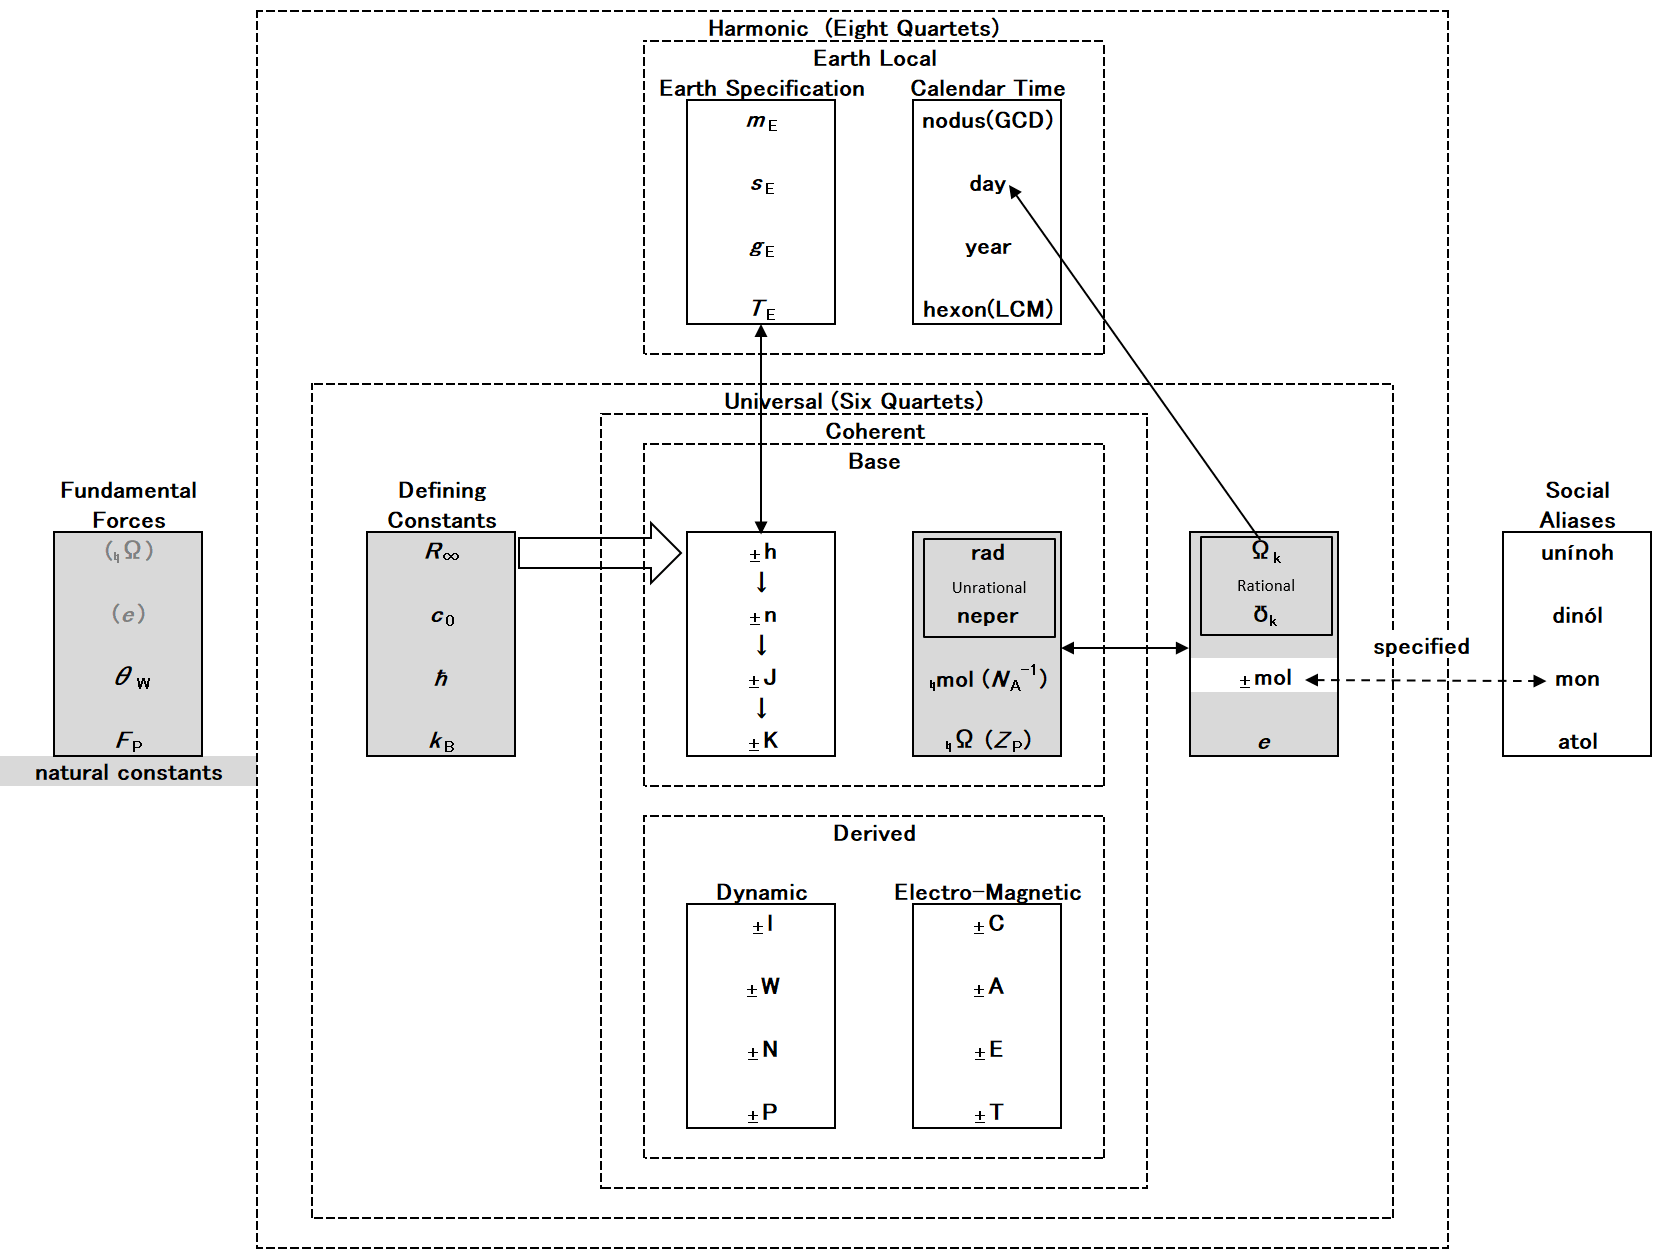
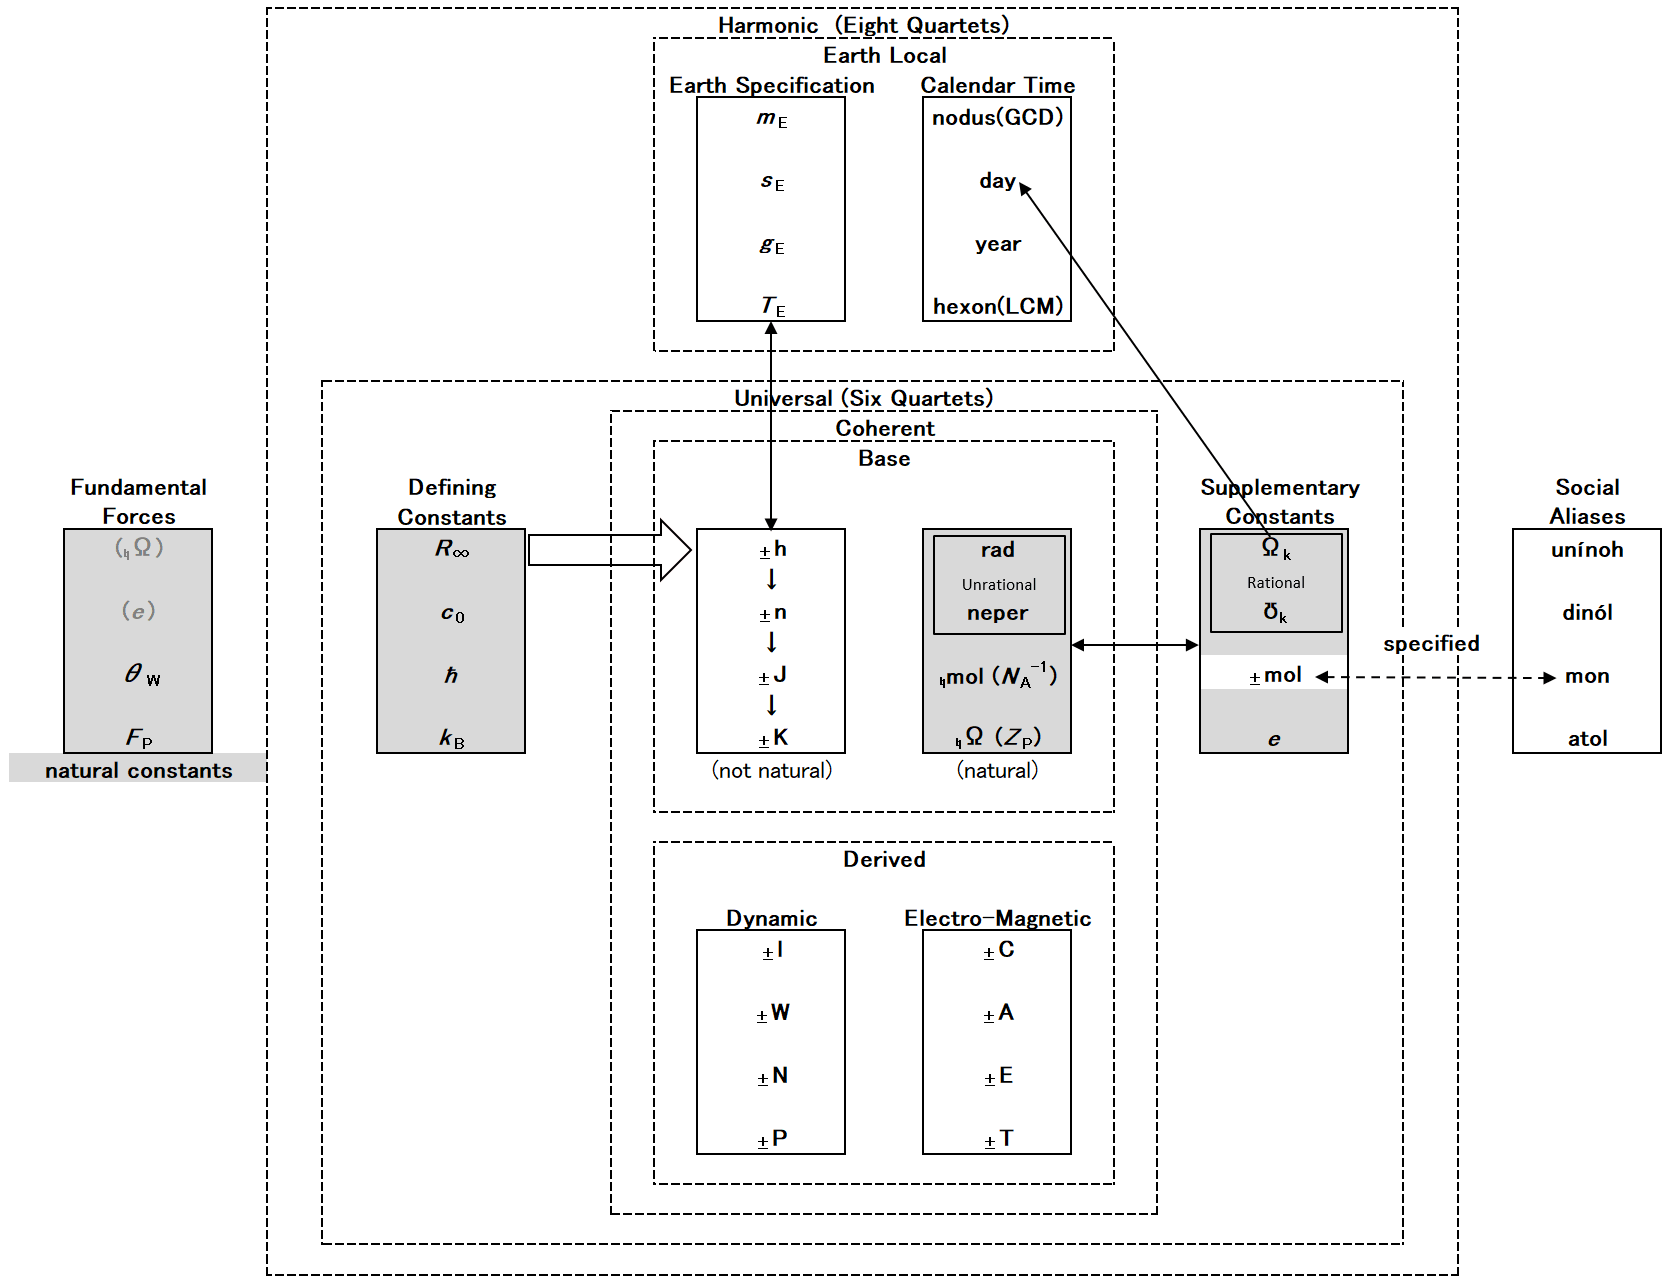
AAdd glossary & linked Eight_Quartets map; refine related docs
- Add doc/glossary.md and doc/Eight_Quartets.pdf (linked concept map);
  reference both from README.md
- Eight_Quartets PNGs: label previously undescribed frames
  (Supplementary Constants, (natural), (not natural));
  update revised.pdf Figure 2 to match
- Note the pressure giving a molar volume of 100; harmonic cube
  per universal mol (revised.pdf note 51, tables.pdf note 11)
- Accept "deg H" / "degree H" notation variants
  (revised.pdf Table 8, tables.pdf Table 5)
- harmonic.pdf, condensed.xlsx: expand °C–°H conversion table
  (both directions near 14 °C and 37 °C)

diff --git a/doc/glossary.md b/doc/glossary.md
@@ -21,7 +21,7 @@ subscripted. SI equivalents are taken from the *Clock_by_Rydberg* sheet of
 | <font color='royalblue'>rad</font> | [radian](http://hosi.org/cgi-bin/conv.cgi?c=d&m=100f0&d=86&tu=1&tr=10&tm=off&tp=0&tl=0&fu=0&fr=12&fm=off&fp=0&fl=0&fq=1.0000000&fe=0&c=Convert)| plane angle | same as SI | natural, coherent, core |  [radian](https://en.wikipedia.org/wiki/Radian) |
 | <font color='royalblue'>neper</font> | [neper](http://hosi.org/cgi-bin/conv.cgi?c=fu&m=100f0&d=59&tu=1&tr=10&tm=off&tp=0&tl=0&fu=2&fr=12&fm=off&fp=0&fl=0&fq=1.0000000&fe=0&c=Convert) | logarithm of Napier's constant | same as SI | natural, base | [neper](https://en.wikipedia.org/wiki/Neper) |
 | <font color='royalblue'><sub>♮</sub>mol</font> | [natural mol](http://hosi.org/cgi-bin/conv.cgi?m=100c0&d=0&fq=1.0000000&frq=12&fe=0&fu=4&tu=1&fp=0&tp=0&fm=off&tm=off&fr=12&tr=10&fl=0&tl=0&c=Convert) | reciprocal Avogadro constant (<font color='royalblue'>N<sub>A</sub>⁻¹</font>) | mol / 602,214,076,000,000,000,000,000 | `♮` ≡ `3-`; substance must be specified | [Avogadro constant](https://en.wikipedia.org/wiki/Avogadro_constant) ⁻¹ |
-| <font color='royalblue'><sub>♮</sub>Ω</font> (<font color='royalblue'>Z<sub>P</sub></font>) | [nohm](http://hosi.org/cgi-bin/conv.cgi?m=100b0&d=10&fq=1.0000000&frq=12&fe=0&fu=0&tu=1&fp=0&tp=0&fm=off&tm=off&fr=12&tr=10&fl=0&tl=0&c=Convert) | natural unit of impedance | 29.9792458 Ω | vacuum impedance | [Planck Impedance](https://en.wikipedia.org/wiki/Impedance_of_free_space) / `Ω₂` |
+| <font color='royalblue'><sub>♮</sub>Ω</font> (<font color='royalblue'>Z<sub>P</sub></font>) | [nohm](http://hosi.org/cgi-bin/conv.cgi?m=100b0&d=10&fq=1.0000000&frq=12&fe=0&fu=0&tu=1&fp=0&tp=0&fm=off&tm=off&fr=12&tr=10&fl=0&tl=0&c=Convert) | natural unit of impedance | 29.9792458 Ω | vacuum impedance | [Impedance of free space](https://en.wikipedia.org/wiki/Impedance_of_free_space) / `Ω₂` |
 
 ## 2. Base Units (not natural)
 
@@ -64,21 +64,21 @@ unit equals the harmonic unit. When context makes the Harmonic System clear,
 
 ## 6. Defining Constants
 
-| Symbol | Name | Quantity | Constant | Wikipedia |
-|--------|------|----------|----------|-----------|
-| <font color='royalblue'>R<sub>∞</sub></font> | [Rydberg](http://hosi.org/cgi-bin/conv.cgi?m=100f0&d=87&fq=1.0000000000000&frq=10&fe=0&fu=5&tu=1&fp=0&tp=0&fm=off&tm=off&fr=10&tr=10&fl=0&tl=0&c=Convert) | wave number | the Rydberg constant | [Rydberg constant](https://en.wikipedia.org/wiki/Rydberg_constant) |
-| <font color='royalblue'><sub>♮</sub>γ</font> (`c₀`) | [light](http://hosi.org/cgi-bin/conv.cgi?m=100f0&d=6&fq=1.00000000&frq=10&fe=0&fu=4&tu=1&fp=0&tp=0&fm=off&tm=off&fr=10&tr=10&fl=0&tl=0&c=Convert) | velocity | speed of light in vacuum | [Speed of light](https://en.wikipedia.org/wiki/Speed_of_light) |
-| `ħ` | [quantum](http://hosi.org/cgi-bin/conv.cgi?m=100f0&d=25&fq=1.000000000000&frq=10&fe=0&fu=4&tu=1&fp=0&tp=0&fm=off&tm=off&fr=10&tr=10&fl=0&tl=0&c=Convert) | action | quantum of action (reduced Planck constant) | [Planck constant](https://en.wikipedia.org/wiki/Planck_constant) |
-| <font color='royalblue'>k<sub>B</sub></font> | [Boltzmann](http://hosi.org/cgi-bin/conv.cgi?m=10090&d=5&fq=1.0000000&frq=10&fe=0&fu=4&tu=1&fp=0&tp=0&fm=off&tm=off&fr=10&tr=10&fl=0&tl=0&c=Convert) | entropy | the Boltzmann constant | [Boltzmann constant](https://en.wikipedia.org/wiki/Boltzmann_constant) |
+| Symbol | Name | Quantity | SI equivalent | Constant | Wikipedia |
+|--------|------|----------|---------------|----------|-----------|
+| <font color='royalblue'>R<sub>∞</sub></font> | [Rydberg](http://hosi.org/cgi-bin/conv.cgi?m=100f0&d=87&fq=1.0000000000000&frq=10&fe=0&fu=5&tu=1&fp=0&tp=0&fm=off&tm=off&fr=10&tr=10&fl=0&tl=0&c=Convert) | wave number | 10973731.568157 Ω₁/m | the Rydberg constant | [Rydberg constant](https://en.wikipedia.org/wiki/Rydberg_constant) |
+| <font color='royalblue'><sub>♮</sub>γ</font> (`c₀`) | [light](http://hosi.org/cgi-bin/conv.cgi?m=100f0&d=6&fq=1.00000000&frq=10&fe=0&fu=4&tu=1&fp=0&tp=0&fm=off&tm=off&fr=10&tr=10&fl=0&tl=0&c=Convert) | velocity | 299792458 m/s | speed of light in vacuum | [Speed of light](https://en.wikipedia.org/wiki/Speed_of_light) |
+| `ħ` | [quantum](http://hosi.org/cgi-bin/conv.cgi?m=100f0&d=25&fq=1.000000000000&frq=10&fe=0&fu=4&tu=1&fp=0&tp=0&fm=off&tm=off&fr=10&tr=10&fl=0&tl=0&c=Convert) | action | 6.62607015×10<sup>−34</sup> J⋅s / 2π | quantum of action (reduced Planck constant) | [Planck constant](https://en.wikipedia.org/wiki/Planck_constant) |
+| <font color='royalblue'>k<sub>B</sub></font> | [Boltzmann](http://hosi.org/cgi-bin/conv.cgi?m=10090&d=5&fq=1.0000000&frq=10&fe=0&fu=4&tu=1&fp=0&tp=0&fm=off&tm=off&fr=10&tr=10&fl=0&tl=0&c=Convert) | entropy | 1.380649×10<sup>−23</sup> J/K | the Boltzmann constant | [Boltzmann constant](https://en.wikipedia.org/wiki/Boltzmann_constant) |
 
 ## 7. Supplementary Constants
 
-| Symbol | Name | Constant | Wikipedia |
-|--------|------|----------|-----------|
-| `e` | [electron](http://hosi.org/cgi-bin/conv.cgi?m=100b0&d=0&fq=1.0000000&frq=10&fe=0&fu=6&tu=1&fp=0&tp=0&fm=off&tm=off&fr=10&tr=10&fl=0&tl=0&c=Convert) | elementary electric charge | [Elementary charge](https://en.wikipedia.org/wiki/Elementary_charge) |
-| <font color='royalblue'><sub>±</sub>mol</font><sub>substance</sub> | [harmonic / universal mol](http://hosi.org/cgi-bin/conv.cgi?m=100f0&d=7&fq=1.0000000000&frq=12&fe=0&fu=0&tu=1&fp=0&tp=0&fm=off&tm=off&fr=12&tr=10&fl=0&tl=0&c=Convert) | with substance name (ex. <font color='royalblue'><sub>±</sub>mol</font><sub>CO₂</sub>) | [Mole (unit)](https://en.wikipedia.org/wiki/Mole_(unit)) |
-| <font color='royalblue'>Ω<sub>k</sub></font> | turn-class unit | total solid angle of a hypersphere (Ω₁=[cycle](http://hosi.org/cgi-bin/conv.cgi?m=100f0&d=86&fq=1.0000000&frq=12&fe=0&fu=3&tu=7&fp=0&tp=0&fm=off&tm=off&fr=12&tr=10&fl=0&tl=0&c=Convert), Ω₂=[turn](http://hosi.org/cgi-bin/conv.cgi?m=100f0&d=85&fq=1.0000000&frq=12&fe=0&fu=3&tu=1&fp=0&tp=0&fm=off&tm=off&fr=12&tr=10&fl=0&tl=0&c=Convert)) | — |
-| <font color='royalblue'>℧<sub>k</sub></font> (<font color='royalblue'>f<sub>k</sub></font>) | figure | logarithm of an integer; f₁=[bit](http://hosi.org/cgi-bin/conv.cgi?m=100f0&d=59&fq=1.0000000&frq=10&fe=0&fu=4&tu=3&fp=0&tp=0&fm=off&tm=off&fr=10&tr=10&fl=0&tl=0&c=Convert), f₄=nibble, f₈=byte, f_z=[figure](http://hosi.org/cgi-bin/conv.cgi?m=100f0&d=59&fq=1.0000000&frq=12&fe=0&fu=0&tu=1&fp=0&tp=0&fm=off&tm=off&fr=12&tr=10&fl=0&tl=0&c=Convert) (z = log12./log2). Alias `f` where `℧` unavailable | — |
+| Symbol | Name | SI equivalent | Constant | Wikipedia |
+|--------|------|---------------|----------|-----------|
+| `e` | [electron](http://hosi.org/cgi-bin/conv.cgi?m=100b0&d=0&fq=1.0000000&frq=10&fe=0&fu=6&tu=1&fp=0&tp=0&fm=off&tm=off&fr=10&tr=10&fl=0&tl=0&c=Convert) | 1.602176634×10<sup>−19</sup> C | elementary electric charge | [Elementary charge](https://en.wikipedia.org/wiki/Elementary_charge) |
+| <font color='royalblue'><sub>±</sub>mol</font><sub>substance</sub> | [harmonic / universal mol](http://hosi.org/cgi-bin/conv.cgi?m=100f0&d=7&fq=1.0000000000&frq=12&fe=0&fu=0&tu=1&fp=0&tp=0&fm=off&tm=off&fr=12&tr=10&fl=0&tl=0&c=Convert) | 132.00762 mol | with substance name (ex. <font color='royalblue'><sub>±</sub>mol</font><sub>CO₂</sub>) | [Mole (unit)](https://en.wikipedia.org/wiki/Mole_(unit)) |
+| <font color='royalblue'>Ω<sub>k</sub></font> | turn-class unit | — | total solid angle of a hypersphere (Ω₁=[cycle](http://hosi.org/cgi-bin/conv.cgi?m=100f0&d=86&fq=1.0000000&frq=12&fe=0&fu=3&tu=7&fp=0&tp=0&fm=off&tm=off&fr=12&tr=10&fl=0&tl=0&c=Convert), Ω₂=[turn](http://hosi.org/cgi-bin/conv.cgi?m=100f0&d=85&fq=1.0000000&frq=12&fe=0&fu=3&tu=1&fp=0&tp=0&fm=off&tm=off&fr=12&tr=10&fl=0&tl=0&c=Convert)) | — |
+| <font color='royalblue'>℧<sub>k</sub></font> (<font color='royalblue'>f<sub>k</sub></font>) | figure | — | logarithm of an integer; f₁=[bit](http://hosi.org/cgi-bin/conv.cgi?m=100f0&d=59&fq=1.0000000&frq=10&fe=0&fu=4&tu=3&fp=0&tp=0&fm=off&tm=off&fr=10&tr=10&fl=0&tl=0&c=Convert), f₄=nibble, f₈=byte, f_z=[figure](http://hosi.org/cgi-bin/conv.cgi?m=100f0&d=59&fq=1.0000000&frq=12&fe=0&fu=0&tu=1&fp=0&tp=0&fm=off&tm=off&fr=12&tr=10&fl=0&tl=0&c=Convert) (z = log12./log2). Alias `f` where `℧` unavailable | — |
 
 ## 8. Structural Constants
 
@@ -118,8 +118,8 @@ the 53-tone equal-tempered keyboard.
 | <font color='royalblue'>m<sub>E</sub></font> | Earth meridian ([meridian](http://hosi.org/cgi-bin/conv.cgi?m=100f0&d=0&fq=1.0000000&frq=12&fe=0&fu=13&tu=1&fp=0&tp=3&fm=off&tm=off&fr=12&tr=10&fl=0&tl=0&c=Convert)) | meridian length of the Earth (≑ (ω₂/3) cosmic harmon / Ω₁) |
 | <font color='royalblue'>s<sub>E</sub></font> | Earth solar ([solar](http://hosi.org/cgi-bin/conv.cgi?m=100f0&d=2&fq=1.0000000&frq=12&fe=0&fu=14&tu=1&fp=0&tp=0&fm=off&fr=12&tr=10&fl=0&tl=0&c=Convert)) | rotation period of the Earth (epoch: start of year 1900.) |
 | <font color='royalblue'>g<sub>E</sub></font> | gee of Earth ([gee](http://hosi.org/cgi-bin/conv.cgi?m=100f0&d=18&fq=1.0000000&frq=12&fe=0&fu=5&tu=1&fp=0&tp=0&fm=off&tm=off&fr=12&tr=10&fl=0&tl=0&c=Convert)) | gravitational acceleration of the Earth |
-| `°H` | [degree H](http://hosi.org/cgi-bin/conv.cgi?m=10090&d=0&fq=0.0000000&frq=12&fe=0&fu=0&tu=1&fp=0&tp=0&fm=off&tm=off&fr=12&tr=10&fl=0&tl=0&c=Convert) | difference of thermodynamic temperature from the base point; `0;°H` ↔ `118,2354; ±K` (T_E), chosen so that `100;°H` matches the boiling point of water |
-| <font color='royalblue'>T<sub>E</sub></font> | — | Earth-local temperature scale = `118,2354; ±K` (≈ −74.36 °C, −101.85 °F); the only deliberately chosen component |
+| <font color='royalblue'>T<sub>E</sub></font> | base point of degree H | Earth-local temperature scale = `118,2354; ±K` (≈ −74.36 °C, −101.85 °F); the only deliberately chosen component |
+| `°H` | [degree H](http://hosi.org/cgi-bin/conv.cgi?m=10090&d=0&fq=0.0000000&frq=12&fe=0&fu=0&tu=1&fp=0&tp=0&fm=off&tm=off&fr=12&tr=10&fl=0&tl=0&c=Convert) | difference of thermodynamic temperature from the base point; `0;°H` ↔ `118,2354; ±K` (T<sub>E</sub>), chosen so that `100;°H` matches the boiling point of water |
 
 ## 12. Calendar-Time Units
 
@@ -127,7 +127,7 @@ the 53-tone equal-tempered keyboard.
 |--------|------|------------|
 | `☼̃` | [year](http://hosi.org/cgi-bin/conv.cgi?m=10080&d=2&fq=1.00000000&frq=12&fe=0&fu=23&tu=13&fp=0&tp=0&fm=off&fr=12&tr=10&fl=0&tl=0&c=Convert) | 365. 31./128. days |
 | `☽̃` | month | 10;⁻¹ year |
-| `°̃` | day | 1 Ω₁ |
+| `°̃` | [day](pic/calendar_time_structure_nodus.png) | 1 Ω₁ |
 | `′̃` | unitia | 10;⁻¹ day |
 | `″̃` | ditia | 10;⁻² day |
 | `‴̃` | [tertia](http://hosi.org/cgi-bin/conv.cgi?m=10080&d=2&fq=1.0000000&frq=12&fe=0&fu=8&tu=1&fp=0&tp=0&fm=off&fr=12&tr=10&fl=0&tl=0&c=Convert) | 10;⁻³ day |
@@ -141,8 +141,8 @@ the 53-tone equal-tempered keyboard.
 |--------|------|------------|
 | `mon`<sub>country</sub> | mon | least-valued currency unit of a country/economic group (ex. 1$ = 84; mon<sub>us</sub>) |
 | ;′<font color='royalblue'><sub>±</sub>h</font> | unínoh | 10;⁻¹ harmon = [2.2696 cm](http://hosi.org/cgi-bin/conv.cgi?m=10080&d=0&fq=0%3B10000000&frq=12&fe=0&fu=0&tu=1&fp=0&tp=-2&fm=off&tm=off&fr=12&tr=10&fl=0&tl=0&c=Convert) = [0.89354 inch](http://hosi.org/cgi-bin/conv.cgi?m=10080&d=0&fq=0%3B10000000&frq=12&fe=0&fu=0&tu=25&fp=0&tp=0&fm=off&tm=off&fr=12&tr=10&fl=0&tl=0&c=Convert) |
-| ;″<font color='royalblue'><sub>±</sub>l</font> | [dinól](http://hosi.org/cgi-bin/conv.cgi?m=10080&d=2&fq=1.0000000&frq=12&fe=0&fu=7&tu=1&fp=0&tp=0&fm=off&fr=12&tr=10&fl=0&tl=0&c=Convert) | 10;⁻² looloh = [0.91548 gram](http://hosi.org/cgi-bin/conv.cgi?m=10080&d=3&fq=0%3B010000000&frq=12&fe=0&fu=0&tu=1&fp=0&tp=0&fm=off&tm=off&fr=12&tr=10&fl=0&tl=0&c=Convert) = [0.03229 ounce](http://hosi.org/cgi-bin/conv.cgi?m=10080&d=3&fq=0%3B010000000&frq=12&fe=0&fu=0&tu=10&fp=0&tp=0&fm=off&tm=off&fr=12&tr=10&fl=0&tl=0&c=Convert) |
-| `-γ` | atol | 10;⁻⁸ c₀ = 1 harmon / nic = 2.509 997 km/h |
+| ;″<font color='royalblue'><sub>±</sub>l</font> | dinól | 10;⁻² looloh = [0.91548 gram](http://hosi.org/cgi-bin/conv.cgi?m=10080&d=3&fq=0%3B010000000&frq=12&fe=0&fu=0&tu=1&fp=0&tp=0&fm=off&tm=off&fr=12&tr=10&fl=0&tl=0&c=Convert) = [0.03229 ounce](http://hosi.org/cgi-bin/conv.cgi?m=10080&d=3&fq=0%3B010000000&frq=12&fe=0&fu=0&tu=10&fp=0&tp=0&fm=off&tm=off&fr=12&tr=10&fl=0&tl=0&c=Convert) |
+| <font color='royalblue'><sub>-</sub>γ</font> | atol | 10;⁻⁸ c₀ = 1 harmon / nic = 2.509 997 km/h |
 
 Aliases are *interfaces*, not weaknesses. Several social aliases, introduced
 independently, necessarily derive their final letter from the corresponding

diff --git a/README.md b/README.md
@@ -1,6 +1,9 @@
 # a_converter — Universal Unit System & Harmonic System
 <p align="center">
-  <img src="doc/pic/Eight_Quartets_vertical_clear.png" style="width:90px;" title="Harmonic System — Eight Quartets (https://suchowan.seesaa.net/article/202601article_23_1.html)"/>
+  <a href="doc/Eight_Quartets.pdf?raw=true">
+    <img src="doc/pic/Eight_Quartets_vertical_clear.png" width="90"
+         title="Harmonic System — Eight Quartets (click for interactive PDF with active links)"/>
+  </a>
 </p>
 
 ## What is this?
@@ -33,6 +36,7 @@ the current structure, design principles, and notation of the Universal Unit Sys
 and the Harmonic System.
 
 - **[Main document: revised.pdf](doc/revised.pdf)** — Comprehensive and up-to-date description of the system
+- **[Conceptual map: Eight_Quartets.pdf](doc/Eight_Quartets.pdf?raw=true)** — Interactive map with active links to [doc/glossary.md](doc/glossary.md)
 
 For an intuitive overview, see:
 